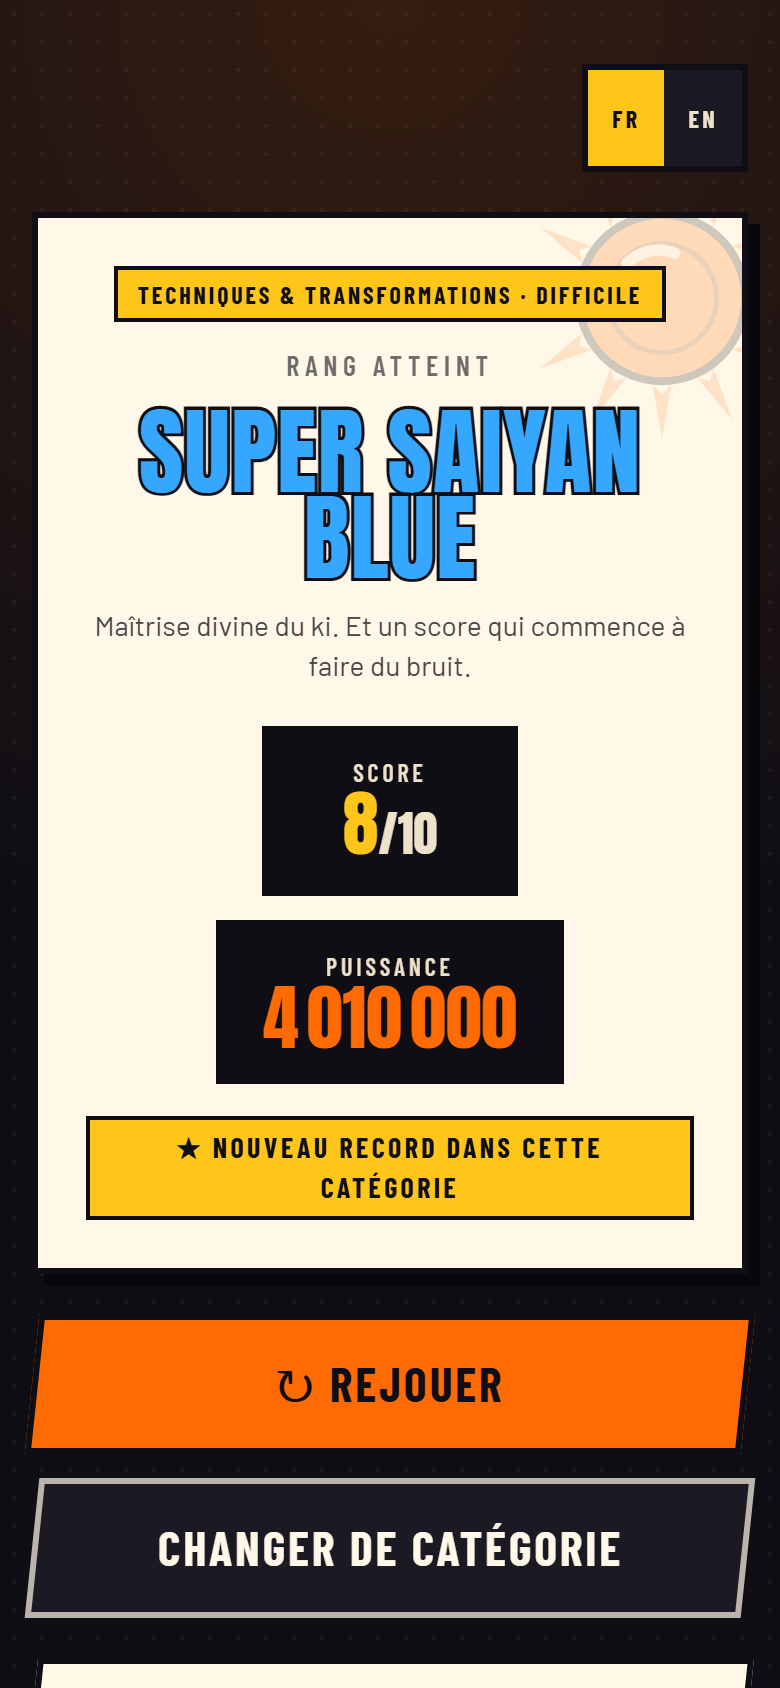
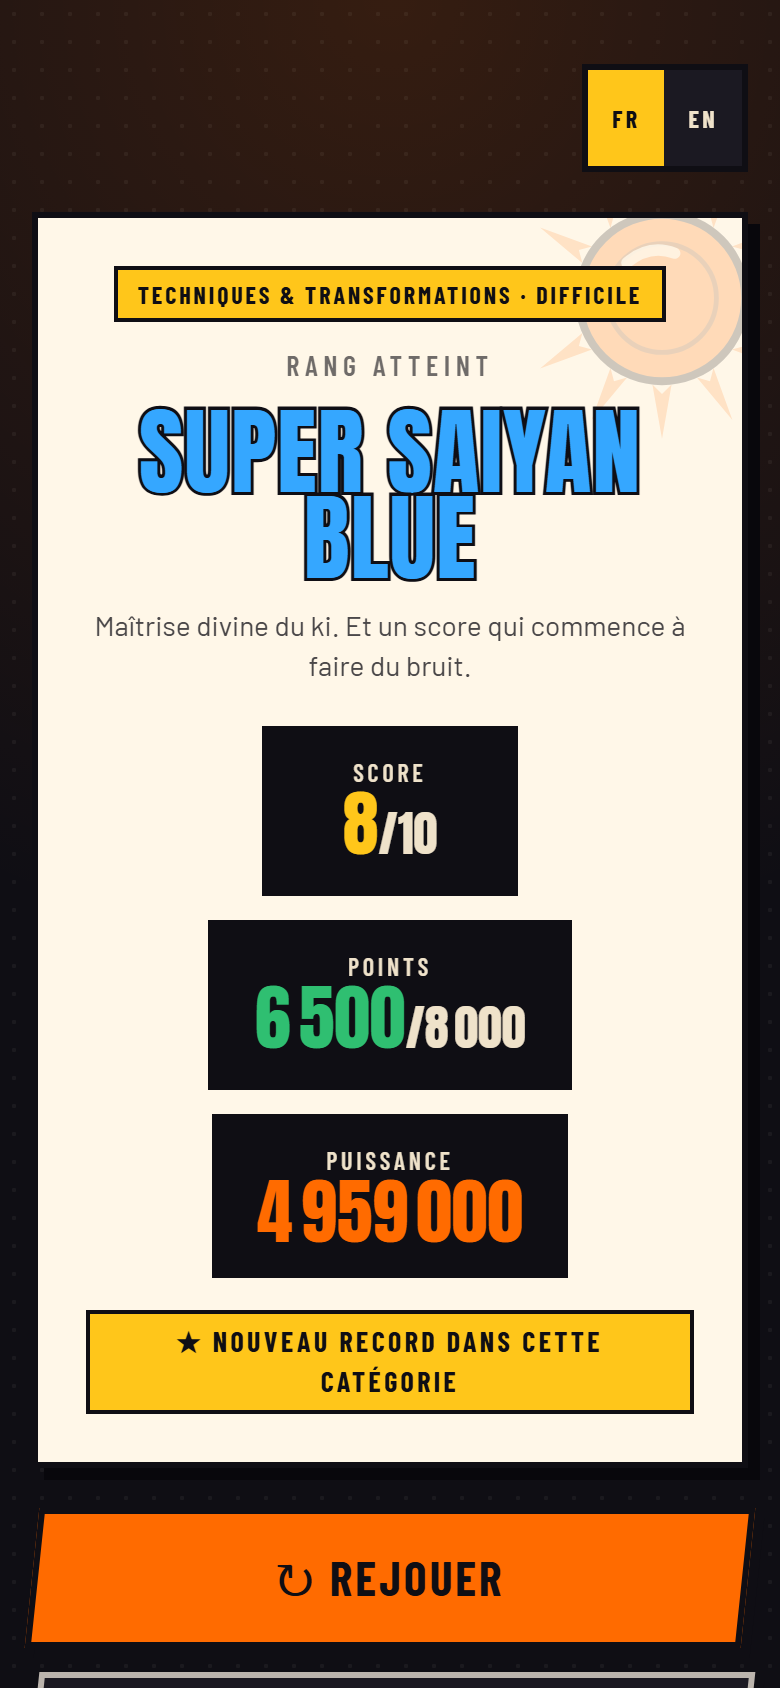
Place la valeur de la question sur sa carte
Dans l'en-tete, a trois badges, le mobile renvoyait celui des points seul
sur une ligne, loin de la question a laquelle il se rapporte. Sur la
carte, au-dessus de l'enonce, c'est aussi la que l'oeil le cherche.

Changed region(s): [[0.0308, 0.5237, 0.9846, 1.0]]

diff --git a/src/components/QuizScreen.jsx b/src/components/QuizScreen.jsx
@@ -78,9 +78,6 @@ export default function QuizScreen({ round, category, difficulty, chrono, onFini
             {t.categories[category.id].label}
           </Badge>
           <Badge tone={difficulty.accent}>{t.niveaux[difficulty.id].label}</Badge>
-          {/* Une manche mélange les paliers : sans cette valeur, rien ne
-              distingue à l'écran la question à 300 de celle à 1000. */}
-          <Badge tone="jade">{t.quiz.pointsQuestion(formatNombre(pointsOf(question), t.locale))}</Badge>
           {chrono && (
             <Badge tone="crimson" solid>
               {t.quiz.badgeChrono}
@@ -115,6 +112,10 @@ export default function QuizScreen({ round, category, difficulty, chrono, onFini
           className="speedlines pointer-events-none absolute inset-0 opacity-[0.07]"
           aria-hidden="true"
         />
+        <span className="relative mb-3 inline-block border-2 border-ink bg-jade px-2 py-0.5 font-label text-xs uppercase tracking-[0.14em] text-ink">
+          {t.quiz.pointsQuestion(formatNombre(pointsOf(question), t.locale))}
+        </span>
+
         <h2 className="relative font-display text-2xl leading-[1.05] sm:text-4xl">
           {question.prompt}
         </h2>
